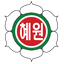
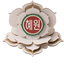
v1.120.1 — ＋ 일정 입력칸이 화면 밖에 열리던 것 · 혜비스 로고를 종이공예로
- ＋ 일정 을 눌러도 «아무 창도 안 생긴다» — 실은 생겼는데 화면 밖이었다.
  입력칸이 목록 맨 위(3월 위)에 그려지는데 화면은 오늘(9월) 자리를 지킨다.
  구분 줄은 머리에 붙어 있어 단추는 늘 보이지만, 열린 칸은 한참 위에 있었다.
  → 칸을 «구분 줄 바로 밑에 떠 있는» 창(position: fixed)으로 바꿨다.
    구분 줄 높이도 그릴 때마다 재어(--gpbh) 겹치지 않게 한다. 열면 «내용» 칸에 커서.
  실측: 900px 굴린 자리에서 구분 줄 아래끝 123px → 창 127~225px, 화면 안.
- 혜비스 로고(제목 줄·트레이·앱 아이콘·내려받기 페이지)를 종이공예 교표로.
  ★ 받은 파일(hyewon-logo_BOOK2.png)은 투명 바둑판이 «그림에 찍혀» 있었다(투명 0%).
    그대로 쓰면 로고 자리에 회색 바둑판이 나온다. 테두리에서 번져 들어가며
    «무채색이고 밝은» 점만 지워 걷어냈다(꽃잎은 따뜻한 미색이라 안 걸린다).
  깨끗한 원본은 _src/hyewon-book-1024.png 에 둔다(빌드 목록 밖이라 설치본에 안 실림).

diff --git a/main.js b/main.js
@@ -1,4 +1,4 @@
-// 파일명: main.js | @version 1.120.0
+// 파일명: main.js | @version 1.120.1
 // 수정요약: v1.113.0 학생기록 ↔ 노션 왕복(↗ 노션으로 · ↙ 가져오기) + 제목 «JI-VIS» 가 좁은 창에서 두 줄로 꺾이던 것 / v1.112.0 행발 변환기 보강 — 평서형 종결(했다·한다·왔다…)을 «~함» 으로, 학생 이름·1인칭 지우기, 혼잣말/물음 문장 버리기 / v1.111.1 저장해 둔 기록에서 «↻ 변환» 을 눌러도 칸이 비던 것 — 값을 넣자마자 다시 그리며 지워졌다(줄별로 담아 둔다) / v1.111.0 다른 세션의 «AI 사용량 초기화 시각 표시»(v1.110.0) 와 «#행특 복사» 를 한 판에 합침 / v1.110.0 학생기록에 «#행특 복사» — 노셔나이가 알아듣는 꼴로 클립보드에 담는다(열쇠·인터넷 없이). 노션에 붙여넣으면 [DB] 2026 학생기록에 페이지 생성+누가기록 문장 자동 작성 / v1.109.0 학생기록 — 마지막 학급·보기 기억 + 행발 누가기록 칸(시트 J열) 신설, «↻ 변환»으로 기록 내용을 생활기록부 문장으로 다듬음(노션 10.행동특성 기준), 보기(둘 다·기록만·누가기록만) / v1.108.1 업무관리를 굴릴 때 오른쪽 틱틱이 고정 머리 밑으로 파고들어 함께 올라가던 것 — 머리 아래에 붙이고 길면 제 안에서 굴러가게 / v1.108.0 ★이름 바꿈 — 진호알리미 → 지비스(JI-VIS). 제목 줄은 손글씨 Pacifico 로 «JI-VIS»(폰트 앱에 심음), 그 밖은 «지비스». 설치 이름·appId·설정 폴더는 그대로라 설정·로그인·자동 업데이트 모두 이어짐 / v1.107.1 진호 시간표가 새 배포를 즉각 반영 — 서비스워커·캐시 떼어 내고, 판이 바뀌면 스스로 다시 불러옴 + ⟳ 단추 / v1.107.0 진호 시간표(얹은 수업진도 웹앱)의 판을 서브칩 줄 오른쪽에 표시 — 배포본 js/server.js 에서 읽음(켤 때+6시간마다, 올리면 배포 시각) / v1.106.2 업무관리 칸막이가 620px 에서 막히던 것 — 창 끝까지 끌리게(왼쪽 280px 만 남김) + 넓게 잡은 값이 300 으로 되돌던 것 수정 / v1.106.1 AI 사용량 «타일 자체» 를 제목 줄 옆 여백으로 옮김(아래 띠 없앰) — 원형/막대·A−A+·⟳ 그대로, 초기화·결제는 올리면 뜨는 풀이로 / v1.106.0 AI 사용량을 제목 줄 «지비스» 옆 작은 숫자로 옮기고, 톱니 옆 ◍ 스위치로 큰 상자를 여닫음(지비스만·기억) / v1.105.2 넓게보기 폭 상한을 전부 풂 — 주간업무·학사일정도 창을 다 쓴다 / v1.105.1 넓게보기가 창을 다 쓰게 — #view max-width:1100px 을 풀어 오른쪽에 늘 남던 빈 자리 없앰(주간업무·학사일정만 글줄 상한 1250) / v1.105.0 AI 사용량 확대·축소(A− A+) — 글자·원형·막대가 함께 커지고 마지막 크기 기억. fontScale 저장 목록에 usage·task·tt 가 빠져 있던 것도 고침 / v1.104.0 틱틱 팔레트를 키보드로 — !높/^혜 처럼 이어 치면 걸러지고 Enter 로 고름, ↑↓ 옮기기, Esc 닫기 / v1.103.0 틱틱 입력칸에서 !·^ 를 치는 순간 우선순위·보관함 단추가 뜸(고르면 글자 지워지고 칩, Esc 닫기) — 칩 줄 위임 배선 / v1.102.1 틱틱 줄의 날짜·우선순위·보관함 칩이 밋밋한 글자로 보이던 것(.tdb 규칙이 덮음) — 버튼처럼 테두리·손가락 커서, 우선순위 없음은 «!없음» / v1.102.0 틱틱 완료함 — 위젯·틱틱 앱에서 완료한 것을 장부에 적어 접힌 «완료 N» 으로 보이고 복원·하나 지우기·전부 지우기(두 번) / v1.101.1 틱틱 마감일이 하루 이르게 보이던 것(UTC 문자열 자르기 → 현지 날짜) / v1.101.0 틱틱 손질 — 줄마다 날짜말·보관함·우선순위, 단축키(!높음 ^보관함 내일), 날짜·우선순위·보관함 팔레트(달력 포함), 지우기(두 번), 정렬, 목록 고르면 전체로 자동 전환 / v1.100.2 결제 크레딧 잔액이 늦게 그려져 비어 오던 것(잔액까지 기다림) / v1.100.1 틱틱 기본함을 /project/inbox/data 로 곧장 읽음(만들었다 지우는 우회 제거 — 그 길은 Unknown exception) / v1.100.0 클로드 결제 정보(플랜·다음 결제/취소 예정일 D-day·크레딧 잔액) 하루 1회 읽어 사용량 아래 표시 + 틱틱 기본함(Inbox) 목록에 포함 + 혜비스 동시 배포 / v1.99.0 내 바로가기 «담기»→«저장», 저장하면 곧바로 타일로 보이고 저장시각(KST) 표시·기억 / v1.98.0 런처보드 머리줄에 «＋ 담기»(앱 고치기 없이 한 번에) + 없는 단추를 가리키던 안내문 정리 / v1.97.1 런처보드 담기가 한 번 미끄러지면 조용히 잠긴 채 남던 문제(잠금 항상 해제·40초 시한·까닭 표시) / v1.97.0 학년부 일지 세부사항(E열)을 내용(D열) 아래에 줄바꿈해 바로 보여줌(누르지 않아도) / v1.96.0 학사일정 학년 스위치가 새로고침에 꺼지던 문제(자료 다시 받는 동안 도구줄이 통째로 사라짐) + 마지막으로 켠 학년 기억 / v1.95.2 얹은 수업진도 로그인을 관문이 걷힐 때까지 지켜보며 다시 잇는다(늦게 뜨면 놓치던 것) + 못 이을 땐 헛단추 대신 까닭 안내 / v1.95.1 얹은 수업진도가 탭 줄을 덮던 문제(화면 배율을 자리 계산에 안 넣었다) + 웹앱 제 머리를 감추고 바탕색을 테마에 맞춤 / v1.95.0 «시간표» → «진호 시간표»(앱 로고). 그 안에 수업진도 대시보드 화면 셋(시간표계획·날짜별·진도표)을 웹앱 그대로 얹음(BrowserView) / v1.94.0 열쇠·설정 백업 — 파일 하나로 내보내기/가져오기, 암호(AES-256-GCM)로 잠금 / v1.93.0 오른쪽 단을 틱틱만으로 (내 할 일 화면 뺌 — 겹쳐서. 적어 둔 것은 상태 파일에 남아 있음) + 틱틱 로고 표시 / v1.92.1 틱틱 할 일이 스물몇 개씩 쏟아지던 것 — 기간(오늘·이번주·마감없음·전체)과 목록으로 거르기, 기본은 이번주 / v1.92.0 틱틱(TickTick) 연동 — 업무관리 오른쪽 단에서 «내 할 일»과 갈아 끼움. 핸드폰과 서로 반영 / v1.91.0 테마 둘 추가 — 한옥(한지 바탕·나무빛)·다크UI(짙은 남색·파랑). 대비를 재서 흐린 색은 짙게 조정 / v1.90.1 내 할 일 체크박스·✕ 와 업무관리 완료로·오늘로 단추가 눌러도 안 먹던 문제 — 단추 배선 목록에 새 종류가 빠져 있었다 / v1.90.0 학급 시간표에도 바뀐 수업 반영 — 컴시간이 변경분을 교사 시간표에만 줘서 학급 쪽은 옛 시간표였다. 교사 쪽 변경을 학급 칸에 옮겨 붙인다(빠짐·들어옴·맞바꿈) / v1.89.5 주간업무 가로 들여쓰기를 번호 단계로 통일 — 원문 앞 공백이 줄마다 달라 «2.» 와 그 아래 «가.» 가 같은 자리에 놓이던 문제 / v1.89.4 주간업무 해석기를 고쳐도 저장해 둔 옛 해석본이 그대로 보이던 문제 — 해석기 판(PARSE_VER)이 다르면 자동으로 다시 받는다 / v1.89.3 주간업무에서 «1.» 과 «가.» 가 같은 줄로 뭉개지던 문제 — 제 번호를 단 줄엔 목록 점을 안 붙인다 / v1.89.2 업무관리에서 «완료» 단추가 상태처럼 보이던 문제 — 모든 줄에 상태 배지(시작 전·진행 중) 표시, 단추는 «…로» 어미 외곽선으로 / v1.89.1 업무관리 2단 사이 칸막이를 끌어 너비 조절(시트처럼)·두 번 누르면 처음대로·너비 기억 / v1.89.0 업무관리 2단 — 오른쪽에 내가 쓰는 「내 할 일」(이 PC 저장·노션 무관). 완료는 접히고 복원·일괄삭제 가능 / v1.88.2 업무관리 탭을 눌러도 딴 탭으로 튕기던 문제(main VIEWS 에 task 누락) + 넓게 보기 차림표에도 업무관리 추가 / v1.88.1 v1.88.0 이 아예 안 켜지던 문제 — 새 파일 notion.js 가 빌드 목록에 빠졌었다(두 갈래 다 추가) / v1.88.0 업무관리 탭 신규(노션 PROJECTS·TASKS 연동 — 지비스 전용, 시간표와 주간업무 사이). 오늘·이번주/프로젝트별/마감없음 3갈래·완료·오늘로·진행중·추가 / v1.87.0 바뀐 수업(보강·교체)이 null-null 로 나오던 문제 — 컴시간이 «>11302» 같은 문자열로 주는 것을 못 읽었다. 파싱 보강 + 바뀐 칸 노란 테두리 표시 / v1.86.0 컴시간 자동 갱신(켤 때 1회 + 6시간마다) + 컴시간 탭 ⟳ 새로고침 버튼 / v1.85.0 숨은 창 로그인·캐시 메모리 전용(?widgetworker=1 — 격리로 손상되는 IndexedDB 회피, 로그인 몇 초 만에 풀리던 문제 뿌리 해결) + 켤 때 손상 창고·재기동 예약작업 찌꺼기 청소 / v1.84.0 구글 클라이언트를 파이어베이스와 같은 프로젝트 것으로 교체(audience 불일치 해소) + 판올림 재기동 wscript 숨김 실행(검은 콘솔 창 제거)
 // 지비스 / 혜원 데스크 — 바탕화면에 항상 떠 있는 작은 카드 (한 벌의 코드에서 두 갈래로 빌드한다)
 // 수정요약: v1.83.0 겹침 방지 두 번째 잠금(포트) — V3 그림자 격리가 파일 잠금을 무력화해도 두 벌이 못 겹치게. 늦게 뜬 쪽이 살아남고, 안 물러나는 좀비는 강제로 내린다

diff --git a/ui.css b/ui.css
@@ -1,4 +1,4 @@
-/* 파일명: ui.css | @version 1.120.0
+/* 파일명: ui.css | @version 1.120.1
    위젯과 혜원이지가 «함께 쓰는» 색·모양.
    테마를 여기 한 곳에서만 고치면 두 프로그램에 같이 반영된다. */
 
@@ -1270,10 +1270,18 @@
     background: var(--bg); margin: 0; padding: 3px 0 5px;
   }
   /* 일정 넣기 칸 — 학사일정 도구줄 바로 밑 */
+  /* ★ 머리(제목·탭) + 달 줄 + 구분 줄 «바로 밑» 에 떠 있는 창.
+     목록 속에 두면 굴려 내려간 자리에서 화면 밖(3월 위)에 열려 안 보였다(2026-09-10). */
   .gpadd {
-    background: var(--card); border: 1px solid var(--line); border-radius: 10px;
-    padding: 9px 11px 11px; margin: 4px 0 8px;
-    display: flex; flex-direction: column; gap: 6px;
+    position: fixed; z-index: 30;
+    top: calc(var(--toph, 46px) + var(--top2h, 0px) + var(--gpbh, 36px) + 4px);
+    right: 14px; width: min(480px, calc(100vw - 28px));
+    max-height: calc(100vh - var(--toph, 46px) - var(--top2h, 0px) - var(--gpbh, 36px) - 20px);
+    overflow-y: auto;
+    background: var(--card); border: 1px solid var(--line); border-radius: 12px;
+    padding: 11px 13px 13px;
+    display: flex; flex-direction: column; gap: 7px;
+    box-shadow: 0 10px 30px rgba(0,0,0,.22), 0 2px 6px rgba(0,0,0,.12);
   }
   .gparow { display: flex; align-items: center; gap: 6px; }
   .gparow.wrap { flex-wrap: wrap; }

diff --git a/views.js b/views.js
@@ -1,4 +1,4 @@
-/* 파일명: views.js | @version 1.120.0
+/* 파일명: views.js | @version 1.120.1
    수정요약: v1.83.0 전광판 글이 짧아도 항상 흐르게 (전광판이니까)
    위젯(지비스·혜원 데스크)과 혜비스가 «함께 쓰는» 화면 코드.
    자료를 읽어 오고(loadWork·loadAcademic…) 화면 조각을 만드는(viewWork·viewAcademic…) 일을 한다.
@@ -5045,6 +5045,8 @@ function render() {
   var t2h = 0;
   if (t2 && getComputedStyle(t2).position === 'sticky') t2h = t2.offsetHeight;
   app.style.setProperty('--top2h', t2h + 'px');
+  var gpb = app.querySelector('.gpbar');
+  app.style.setProperty('--gpbh', (gpb ? gpb.offsetHeight : 0) + 'px');
   /* 수업진도를 얹을 자리 — 다 그린 뒤에 재야 제 크기가 나온다 */
   setTimeout(dashPlace, 0);
 
@@ -6122,6 +6124,10 @@ function wireViews(app) {
     gpAddMsg = ''; gpLast = null;
     if (gpAdd) gpCatsLoad(g);
     render();
+    if (gpAdd) {
+      var ti = app.querySelector('#gpaTitle');
+      if (ti) ti.focus();
+    }
   });
   var gpx = app.querySelector('#gpaX');
   if (gpx) gpx.addEventListener("click", function () {

diff --git a/docs/index.html b/docs/index.html
@@ -76,14 +76,14 @@
   <div class="brand">
     <img src="logo.png" alt="혜원여자중학교 교표" width="56" height="56">
     <h1>혜비스</h1>
-    <span class="vbadge" id="vtop"><!--VER-->1.120.0<!--/VER--></span>
+    <span class="vbadge" id="vtop"><!--VER-->1.120.1<!--/VER--></span>
   </div>
   <div class="sub">주간업무 · 시간표 · 학사일정 · 급식 · 학생기록을 바탕화면 한 창에서</div>
 
   <div class="hero">
     <a class="dl" id="dl"
        href="https://github.com/Arete929/jindo-widget/releases/latest">Windows 용 내려받기</a>
-    <span class="ver" id="ver">판 <b><!--VER-->1.120.0<!--/VER--></b> · <!--SIZE-->81MB<!--/SIZE--> · <!--DATE-->2026. 09. 10<!--/DATE--></span>
+    <span class="ver" id="ver">판 <b><!--VER-->1.120.1<!--/VER--></b> · <!--SIZE-->82MB<!--/SIZE--> · <!--DATE-->2026. 09. 10<!--/DATE--></span>
   </div>
 
   <div class="warn">
